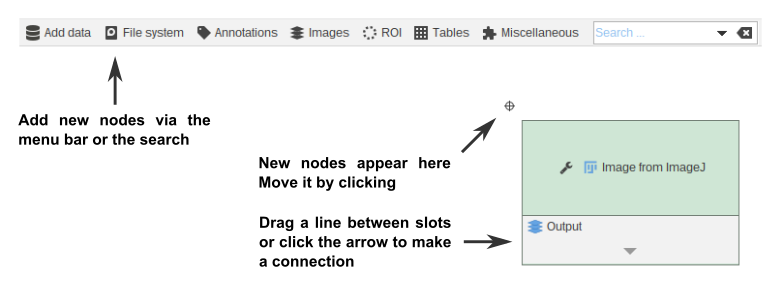
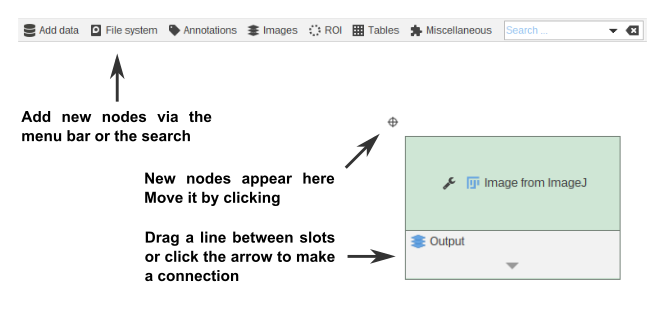
+ Improved introduction

diff --git a/jipipe-core/src/main/java/org/hkijena/jipipe/ui/JIPipeInfoUI.java b/jipipe-core/src/main/java/org/hkijena/jipipe/ui/JIPipeInfoUI.java
@@ -17,22 +17,18 @@ import com.google.common.eventbus.Subscribe;
 import ij.IJ;
 import org.hkijena.jipipe.JIPipe;
 import org.hkijena.jipipe.api.events.ParameterChangedEvent;
+import org.hkijena.jipipe.extensions.settings.GeneralUISettings;
 import org.hkijena.jipipe.extensions.settings.ProjectsSettings;
 import org.hkijena.jipipe.ui.components.BackgroundPanel;
 import org.hkijena.jipipe.ui.components.FormPanel;
 import org.hkijena.jipipe.ui.components.MarkdownDocument;
 import org.hkijena.jipipe.ui.components.MarkdownReader;
 import org.hkijena.jipipe.ui.components.RecentProjectListCellRenderer;
-import org.hkijena.jipipe.utils.ReflectionUtils;
-import org.hkijena.jipipe.utils.ResourceUtils;
-import org.hkijena.jipipe.utils.StringUtils;
-import org.hkijena.jipipe.utils.UIUtils;
+import org.hkijena.jipipe.utils.*;
 
 import javax.imageio.ImageIO;
 import javax.swing.*;
-import java.awt.BorderLayout;
-import java.awt.Color;
-import java.awt.Dimension;
+import java.awt.*;
 import java.awt.event.MouseAdapter;
 import java.awt.event.MouseEvent;
 import java.io.IOException;
@@ -81,17 +77,59 @@ public class JIPipeInfoUI extends JIPipeProjectWorkbenchPanel {
     }
 
     private void initContent() {
-        MarkdownReader markdownReader = new MarkdownReader(false, MarkdownDocument.fromPluginResource("documentation/introduction.md"));
-        markdownReader.setBorder(null);
-        markdownReader.getScrollPane().setBorder(null);
-        add(markdownReader, BorderLayout.CENTER);
+        if(!GeneralUISettings.getInstance().isShowIntroductionTour())
+            return;
+//        MarkdownReader markdownReader = new MarkdownReader(false, MarkdownDocument.fromPluginResource("documentation/introduction.md"));
+//        markdownReader.setBorder(null);
+//        markdownReader.getScrollPane().setBorder(null);
+//        add(markdownReader, BorderLayout.CENTER);
+
+        JPanel tourPanel = new JPanel();
+        tourPanel.setLayout(new BoxLayout(tourPanel, BoxLayout.Y_AXIS));
+        JPanel tourContentPanel = new JPanel(new BorderLayout());
+        tourContentPanel.setAlignmentY(JComponent.CENTER_ALIGNMENT);
+        tourContentPanel.setAlignmentX(JComponent.CENTER_ALIGNMENT);
+        tourContentPanel.setBorder(new RoundedLineBorder(Color.GRAY, 1, 3, true));
+        tourContentPanel.setMaximumSize(new Dimension(800,600));
+//        tourContentPanel.setMinimumSize(new Dimension(800,600));
+        tourContentPanel.setPreferredSize(new Dimension(800,600));
+        tourContentPanel.setBackground(Color.WHITE);
+        tourPanel.add(Box.createVerticalGlue());
+        tourPanel.add(tourContentPanel);
+        tourPanel.add(Box.createVerticalGlue());
+        add(tourPanel, BorderLayout.CENTER);
+
+        DotSlideshow slideshow = new DotSlideshow();
+        MarkdownReader slideWelcome = new MarkdownReader(false, MarkdownDocument.fromPluginResource("documentation/introduction_welcome.md"));
+        slideWelcome.setBorder(BorderFactory.createLineBorder(Color.WHITE, 16));
+        slideshow.addSlide(slideWelcome, "Welcome to JIPipe");
+
+        MarkdownReader slideOrganization = new MarkdownReader(false, MarkdownDocument.fromPluginResource("documentation/introduction_organization.md"));
+        slideOrganization.setBorder(BorderFactory.createLineBorder(Color.WHITE, 16));
+        slideshow.addSlide(slideOrganization, "Organizing your pipeline");
+
+        MarkdownReader slideNodes = new MarkdownReader(false, MarkdownDocument.fromPluginResource("documentation/introduction_nodes.md"));
+        slideNodes.setBorder(BorderFactory.createLineBorder(Color.WHITE, 16));
+        slideshow.addSlide(slideNodes, "Adding nodes");
+
+        MarkdownReader slidesRunning = new MarkdownReader(false, MarkdownDocument.fromPluginResource("documentation/introduction_running.md"));
+        slidesRunning.setBorder(BorderFactory.createLineBorder(Color.WHITE, 16));
+        slideshow.addSlide(slidesRunning, "Running your pipeline");
+
+        slideshow.showSlide("Welcome to JIPipe");
+
+        tourContentPanel.add(slideshow, BorderLayout.CENTER);
     }
 
     private void initRecentProjects() {
         recentProjectsList.setCellRenderer(new RecentProjectListCellRenderer());
         JScrollPane scrollPane = new JScrollPane(recentProjectsList);
         scrollPane.setBorder(BorderFactory.createMatteBorder(0, 0, 0, 1, Color.DARK_GRAY));
-        add(scrollPane, BorderLayout.WEST);
+        if(!GeneralUISettings.getInstance().isShowIntroductionTour())
+            add(scrollPane, BorderLayout.CENTER);
+        else
+            add(scrollPane, BorderLayout.WEST);
+
 
         recentProjectsList.addMouseListener(new MouseAdapter() {
             @Override

diff --git a/jipipe-core/src/main/java/org/hkijena/jipipe/utils/DotSlideshow.java b/jipipe-core/src/main/java/org/hkijena/jipipe/utils/DotSlideshow.java
@@ -1,0 +1,103 @@
+package org.hkijena.jipipe.utils;
+
+import com.google.common.collect.BiMap;
+import com.google.common.collect.HashBiMap;
+
+import javax.swing.*;
+import java.awt.*;
+import java.util.List;
+import java.util.ArrayList;
+
+public class DotSlideshow extends JPanel {
+    private final JPanel target = new JPanel();
+    private ButtonGroup buttonGroup = new ButtonGroup();
+    private BiMap<String, Component> slides = HashBiMap.create();
+    private BiMap<String, JRadioButton> dots = HashBiMap.create();
+    private List<String> slideOrder = new ArrayList<>();
+    private JPanel bottomPanel = new JPanel();
+    private String currentKey;
+
+    public DotSlideshow() {
+        setLayout(new BorderLayout());
+        setOpaque(false);
+        initialize();
+        refreshDots();
+    }
+
+    private void initialize() {
+        target.setLayout(new CardLayout());
+        target.setOpaque(false);
+        add(target, BorderLayout.CENTER);
+        bottomPanel.setLayout(new BoxLayout(bottomPanel, BoxLayout.X_AXIS));
+        bottomPanel.setOpaque(false);
+        add(bottomPanel, BorderLayout.SOUTH);
+    }
+
+    public void addSlide(Component component, String title) {
+        slides.put(title, component);
+        slideOrder.add(title);
+        target.add(component, title);
+        refreshDots();
+    }
+
+    public void showSlide(String title) {
+        currentKey = title;
+        ((CardLayout)target.getLayout()).show(target, title);
+        dots.get(title).setSelected(true);
+    }
+
+    private void refreshDots() {
+        bottomPanel.removeAll();
+        buttonGroup = new ButtonGroup();
+        dots.clear();
+
+        bottomPanel.add(Box.createHorizontalGlue());
+        JButton previousButton = new JButton(UIUtils.getIconFromResources("actions/arrow-left.png"));
+        UIUtils.makeFlat25x25(previousButton);
+        previousButton.addActionListener(e -> previousSlide());
+        bottomPanel.add(previousButton);
+        for (String key : slideOrder) {
+            JRadioButton radioButton = new JRadioButton("");
+            radioButton.setIcon(UIUtils.getIconFromResources("actions/xfce-wm-unstick.png"));
+            radioButton.setSelectedIcon(UIUtils.getIconFromResources("actions/xfce-wm-stick.png"));
+            radioButton.setOpaque(false);
+            buttonGroup.add(radioButton);
+            radioButton.addActionListener(e -> {
+                showSlide(key);
+            });
+            bottomPanel.add(radioButton);
+            dots.put(key, radioButton);
+        }
+        JButton nextButton = new JButton(UIUtils.getIconFromResources("actions/arrow-right.png"));
+        UIUtils.makeFlat25x25(nextButton);
+        nextButton.addActionListener(e -> nextSlide());
+        bottomPanel.add(nextButton);
+        bottomPanel.add(Box.createHorizontalGlue());
+        revalidate();
+        repaint();
+    }
+
+    private void nextSlide() {
+        if(currentKey != null && !slideOrder.isEmpty()) {
+            int index = slideOrder.indexOf(currentKey);
+            if(index == -1)
+                return;
+            if(index + 1 <= slideOrder.size() - 1)
+                showSlide(slideOrder.get(index + 1));
+            else
+                showSlide(slideOrder.get(0));
+        }
+    }
+
+    public void previousSlide() {
+        if(currentKey != null && !slideOrder.isEmpty()) {
+            int index = slideOrder.indexOf(currentKey);
+            if(index == -1)
+                return;
+            if(index - 1 >= 0)
+                showSlide(slideOrder.get(index - 1));
+            else
+                showSlide(slideOrder.get(slideOrder.size() - 1));
+        }
+    }
+}

diff --git a/jipipe-core/src/main/java/org/hkijena/jipipe/extensions/settings/GeneralUISettings.java b/jipipe-core/src/main/java/org/hkijena/jipipe/extensions/settings/GeneralUISettings.java
@@ -38,6 +38,7 @@ public class GeneralUISettings implements JIPipeParameterCollection {
     private boolean modernizeCrossPlatformLookAndFeel = true;
     private boolean addContextActionsToContextMenu = true;
     private boolean maximizeWindows = true;
+    private boolean showIntroductionTour = true;
 
     @Override
     public EventBus getEventBus() {
@@ -159,6 +160,18 @@ public class GeneralUISettings implements JIPipeParameterCollection {
     @JIPipeParameter("maximize-windows")
     public void setMaximizeWindows(boolean maximizeWindows) {
         this.maximizeWindows = maximizeWindows;
+    }
+
+    @JIPipeDocumentation(name = "'Getting started' screen shows tutorial", description = "If enabled, there is a tutorial or other information displayed in the 'Getting started' tab. " +
+            "If disabled, only the recent projects are listed. Requires creating a new project or opening an existing one to take effect.")
+    @JIPipeParameter("show-introduction-tour")
+    public boolean isShowIntroductionTour() {
+        return showIntroductionTour;
+    }
+
+    @JIPipeParameter("show-introduction-tour")
+    public void setShowIntroductionTour(boolean showIntroductionTour) {
+        this.showIntroductionTour = showIntroductionTour;
     }
 
     public static GeneralUISettings getInstance() {

diff --git a/jipipe-core/src/main/resources/org/hkijena/jipipe/documentation/introduction_organization.md b/jipipe-core/src/main/resources/org/hkijena/jipipe/documentation/introduction_organization.md
@@ -1,0 +1,12 @@
+<div style="text-align:center; font-size: 20px; font-weight: bold; color: #4d4d4d; margin-bottom: 40px;">Organizing your pipeline</div>
+
+<div style="text-align: justify; margin-bottom: 40px;">
+To create a pipeline, switch to one of the already open tabs at the top. If you create a new project, there is
+always one tab to manage <img src="image://icons/actions/straight-connector.png"/> <strong>Graph compartments</strong> and multiple 
+<img src="image://icons/data-types/graph-compartment.png"/> <strong>Compartment</strong> items.
+Compartments are a way to organize large pipelines into smaller sub-graphs. You can create as many compartments as you want 
+and pass data between them. Please take a look at out online tutorials for step-by-step explanations.
+</div>
+<div style="text-align:center; ">
+<img src="image://documentation/introduction-compartments.png" />
+</div>

diff --git a/jipipe-core/src/main/resources/org/hkijena/jipipe/documentation/introduction_welcome.md b/jipipe-core/src/main/resources/org/hkijena/jipipe/documentation/introduction_welcome.md
@@ -1,0 +1,16 @@
+<div style="text-align:center; font-size: 40px; font-weight: bold; color: #4d4d4d;">Welcome to JIPipe!</div>
+
+*JIPipe* is a graphical batch processing programming language for *ImageJ* that allows you to create macros without the need for programming.
+If you are new to this tool, then you can find a quick introduction where the most important functions are located within this small guide.
+
+If you want to look at some samples or tutorials, you can find them on our [website](https://www.jipipe.org/).
+You can also find direct links at the top.
+
+Please feel free to provide us with feedback and discuss feature requests, solutions, and more with the [community](https://forum.image.sc/tag/jipipe).
+
+
+**Thank you for using JIPipe!**
+
+<div style="text-align:center; margin-top: 30px;">
+<img src="image://documentation/introduction-welcome.png" />
+</div>

diff --git a/jipipe-core/src/main/resources/org/hkijena/jipipe/documentation/introduction_nodes.md b/jipipe-core/src/main/resources/org/hkijena/jipipe/documentation/introduction_nodes.md
@@ -1,0 +1,11 @@
+<div style="text-align:center; font-size: 20px; font-weight: bold; color: #4d4d4d; margin-bottom: 40px;">Adding nodes</div>
+
+<div style="text-align: justify; margin-bottom: 40px;">
+On switching to a <img src="image://icons/data-types/graph-compartment.png"/> <strong>Compartment</strong>, you can add algorithms 
+into the pipeline. You can find them in the menu or via the <i>Search ...</i> bar. Each algorithm has a set of input and
+output <i>slots</i>. Inputs must always have a connection, while outputs can be left alone. JIPipe will automatically save all
+generated outputs. 
+</div>
+<div style="text-align:center; ">
+<img src="image://documentation/introduction-nodes.png" />
+</div>

diff --git a/jipipe-core/src/main/resources/org/hkijena/jipipe/documentation/introduction_running.md b/jipipe-core/src/main/resources/org/hkijena/jipipe/documentation/introduction_running.md
@@ -1,0 +1,10 @@
+<div style="text-align:center; font-size: 20px; font-weight: bold; color: #4d4d4d; margin-bottom: 40px;">Running your pipeline</div>
+
+<div style="text-align: justify; margin-bottom: 30px;">
+To run a pipeline, click the <img src="image://icons/actions/run-build.png"/> <strong>Run</strong> button at the top-right corner.
+You can also run only a part of the pipeline via the <img src="image://icons/actions/media-play.png"/> <strong>Quick Run</strong>
+feature that can be set up via right-clicking an algorithm node or selecting it.
+</div>
+<div style="text-align:center; ">
+<img src="image://documentation/introduction-running.png" />
+</div>
